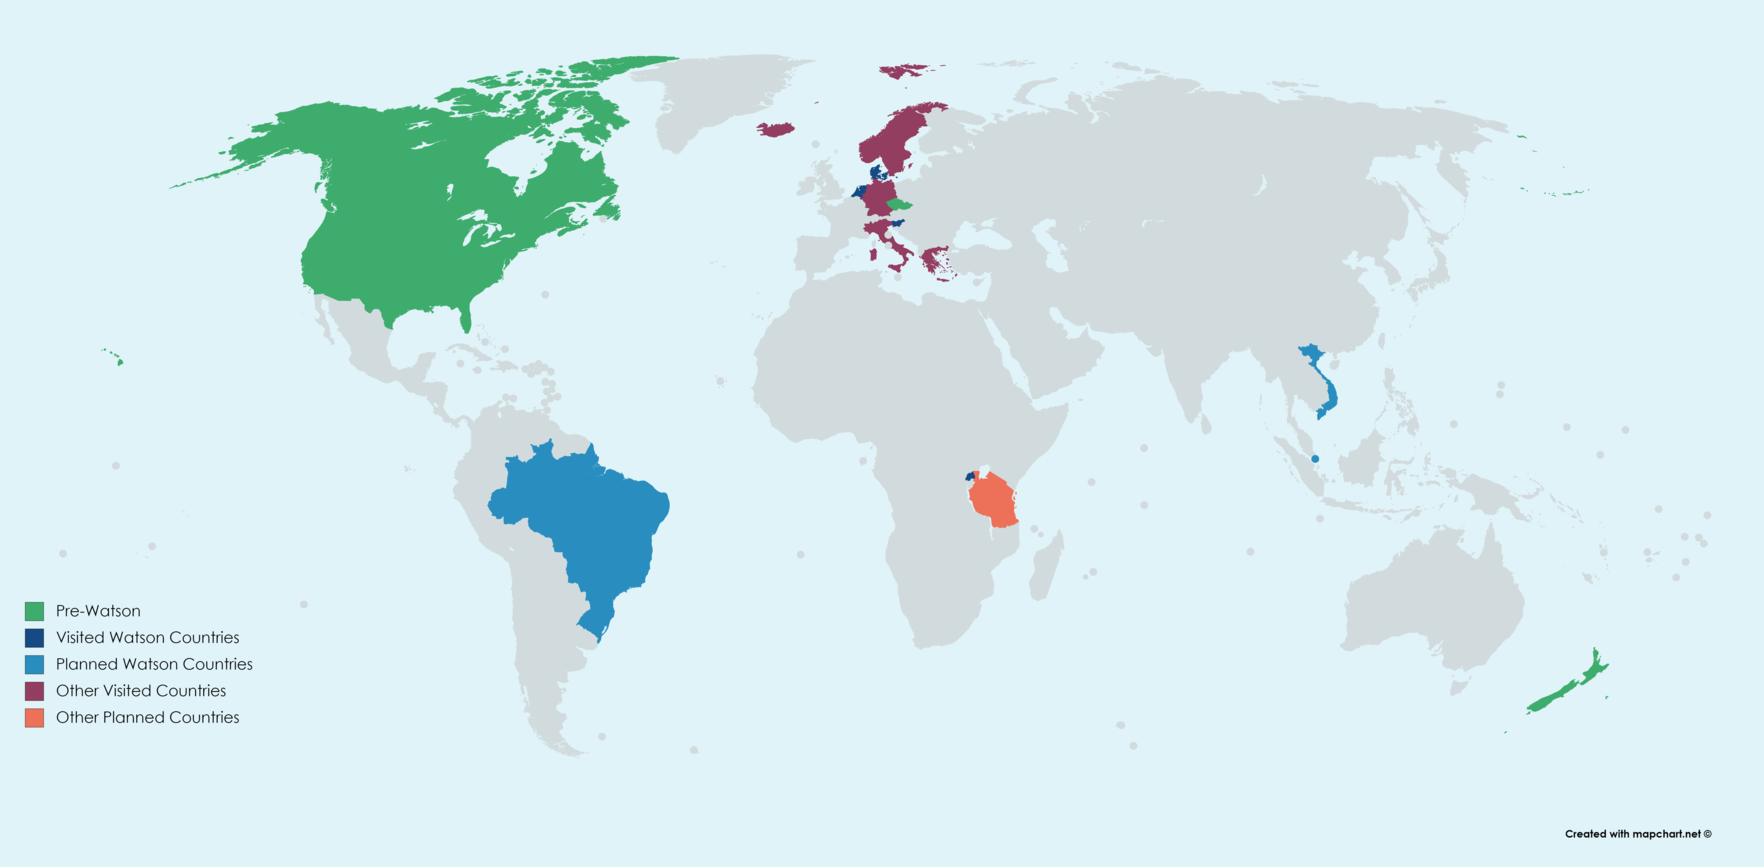
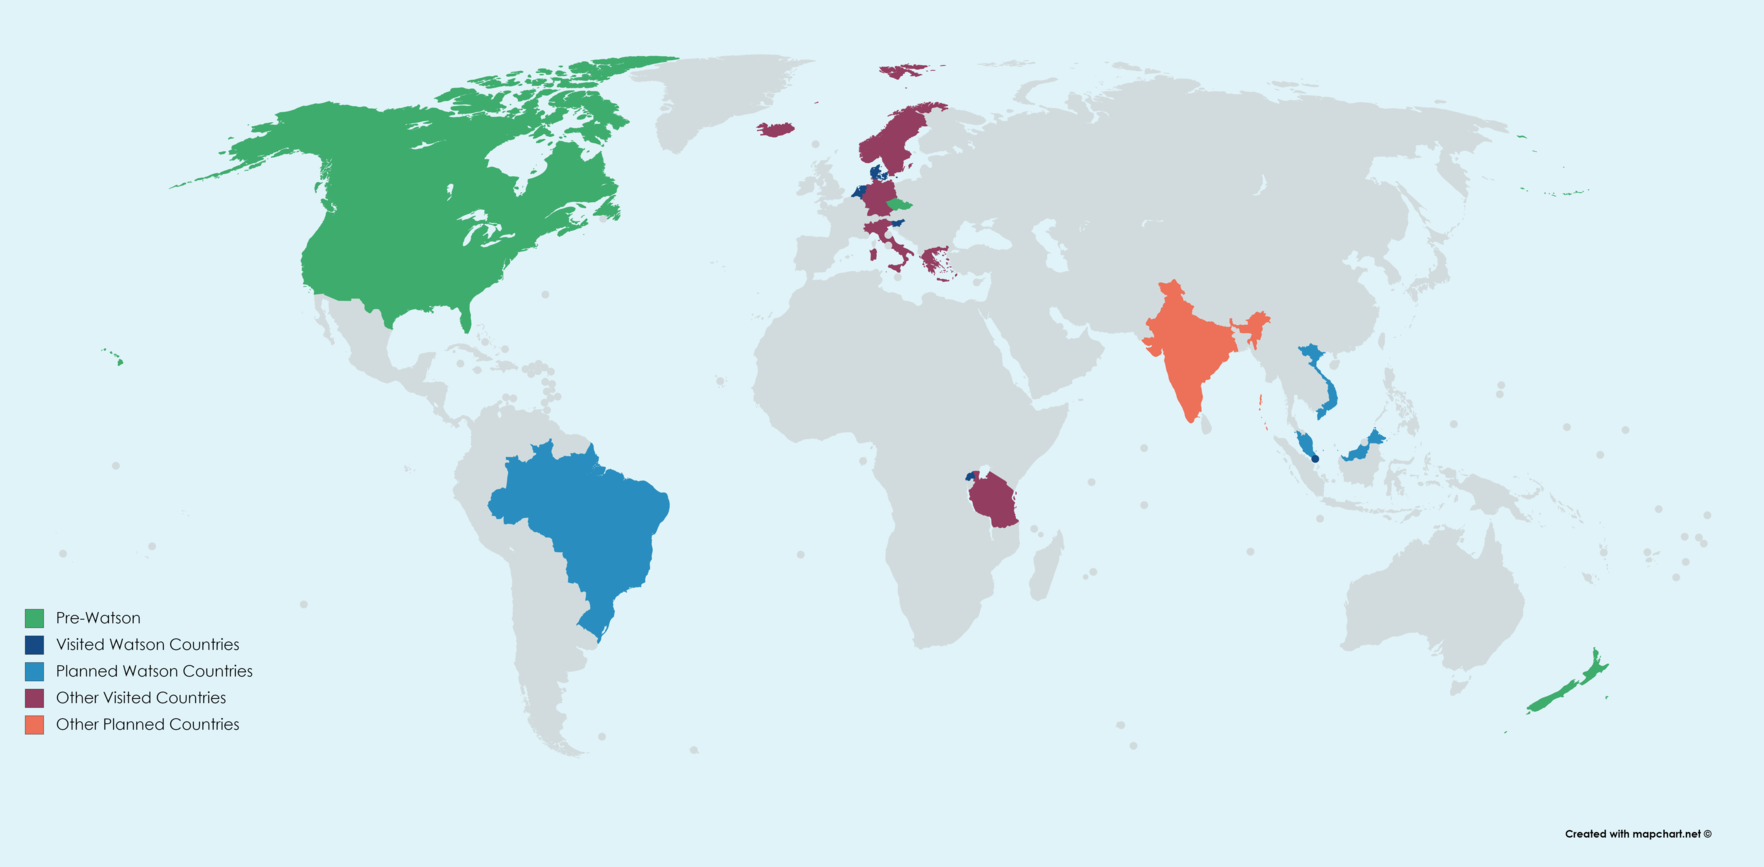
update home

diff --git a/index.html b/index.html
@@ -229,7 +229,7 @@
               </div>
             </a>
             <a ui-sref="watson.landing" ng-click="globalCtrl.refreshPage();globalCtrl.topOfPage();">
-              <div class="watson-country-before p-a-md m-y-md">
+              <div class="other-country-before p-a-md m-y-md">
                 <div class="text-muted text-md col-sm-3 col-xs-0 no-height">
                   <span class="hidden-xs-down">Oct 19</span>
                 </div>
@@ -262,11 +262,22 @@
               </div>
             </a>
             <a ui-sref="watson.landing" ng-click="globalCtrl.refreshPage();globalCtrl.topOfPage();">
-              <div class="other-country-before p-a-md m-y-md">
+              <div class="watson-country-before p-a-md m-y-md">
                 <div class="text-muted text-md col-sm-3 col-xs-0 no-height">
                   <span class="hidden-xs-down">Nov 19</span>
                 </div>
                 <h3 class="col-sm-6 col-xs-12 no-height">Singapore</h3>
+                <div class="text-muted text-md col-sm-3 col-xs-0 no-height">
+                  <span class="hidden-xs-down">TBD</span>
+                </div>
+              </div>
+            </a>
+            <a ui-sref="watson.landing" ng-click="globalCtrl.refreshPage();globalCtrl.topOfPage();">
+              <div class="watson-country-before p-a-md m-y-md">
+                <div class="text-muted text-md col-sm-3 col-xs-0 no-height">
+                  <span class="hidden-xs-down">TBD</span>
+                </div>
+                <h3 class="col-sm-6 col-xs-12 no-height">Malaysia</h3>
                 <div class="text-muted text-md col-sm-3 col-xs-0 no-height">
                   <span class="hidden-xs-down">TBD</span>
                 </div>

diff --git a/states/home.html b/states/home.html
@@ -71,7 +71,7 @@
 						<div class="home-box txt-riley-main text-center">
 							<div class="row-col">
 								<div class="col-xs-4 p-a-0">
-									<a href="https://www.youtube.com/watch?v=C9RQUsdkaLM">
+									<a href="https://www.youtube.com/watch?v=h9TlaYxoOO8">
 										<img ng-src="assets/images/masseduction.jpg" alt="st. vincent" class="top-page-pic">
 									</a>
 								</div>
